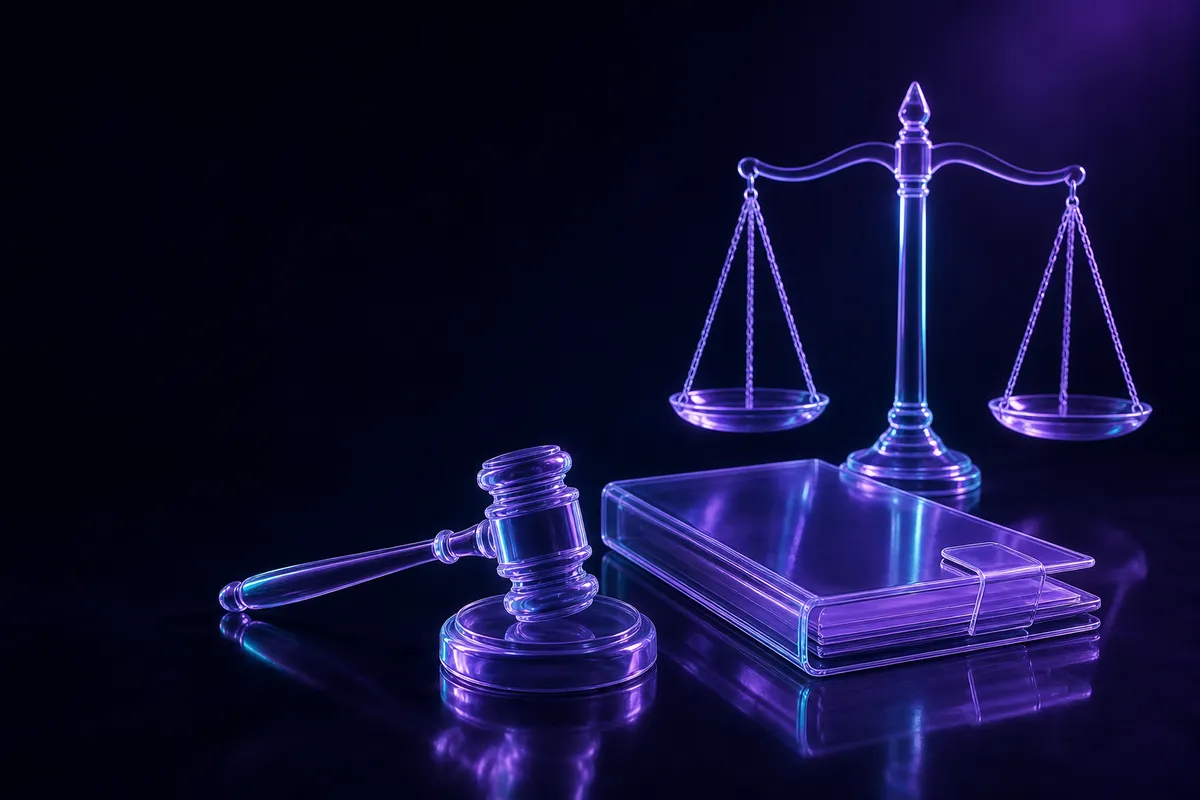
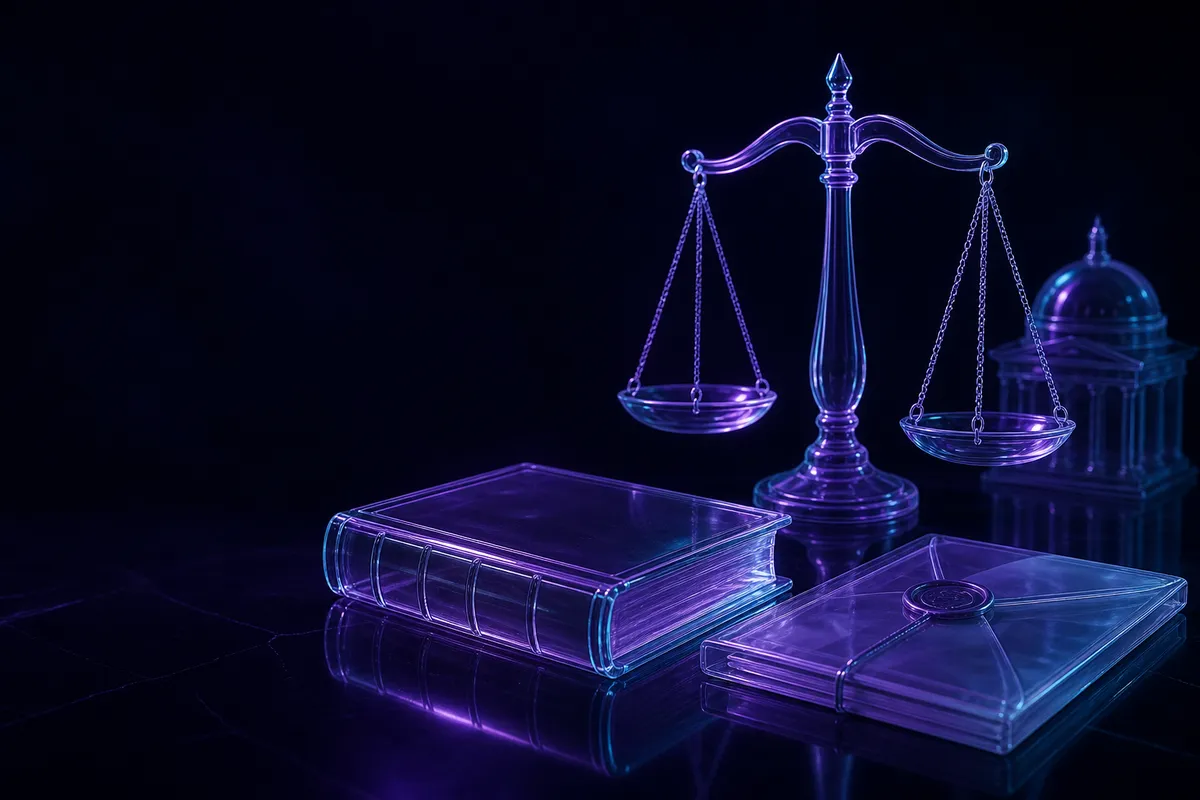
fix(blog): espaces insécables, illustration avocat sans marteau, alt accentués
- src/lib/typographie.ts : un « ? », un « : », un « % » ne commencent plus une ligne,
  « 1 500 euros » ne se coupe plus (plugin remark + titres, FAQ, sources, bio, articles liés)
- illustrer.mjs : symboles adaptés au contexte français (ni marteau de juge, ni dollar),
  texte alternatif relu quand il sort sans aucun accent
- law-firm-ai : illustration redessinée (livre de droit, balance, dossier scellé)
- linter : le message « image absente » ne dit plus que la génération n'est pas branchée

diff --git a/src/components/blog/BlogArticle.tsx b/src/components/blog/BlogArticle.tsx
@@ -11,6 +11,7 @@ import FaqAccordion from "@/components/ui/FaqAccordion";
 import AuthorCard from "./AuthorCard";
 import RelatedPosts from "./RelatedPosts";
 import { mdxComponents } from "./mdx-components";
+import { insecables, remarkInsecables } from "@/lib/typographie";
 
 interface BlogArticleProps {
   post: NonNullable<ReturnType<typeof getPostBySlug>>;
@@ -53,11 +54,11 @@ export default function BlogArticle({
           {content.title}
         </Link>
         <span aria-hidden="true">/</span>
-        <span className="text-white/60">{meta.title}</span>
+        <span className="text-white/60">{insecables(meta.title)}</span>
       </nav>
 
       <h1 className="mb-4 text-4xl font-bold leading-tight text-white md:text-5xl">
-        {meta.title}
+        {insecables(meta.title)}
       </h1>
 
       <p className="flex flex-wrap items-center gap-x-2 gap-y-1 text-sm text-white/40">
@@ -107,7 +108,7 @@ export default function BlogArticle({
         <MDXRemote
           source={post.content}
           components={mdxComponents}
-          options={{ mdxOptions: { remarkPlugins: [remarkGfm] } }}
+          options={{ mdxOptions: { remarkPlugins: [remarkGfm, remarkInsecables] } }}
         />
       </div>
 
@@ -116,7 +117,12 @@ export default function BlogArticle({
           <h2 className="mb-6 text-2xl font-bold text-white">
             {labels.faqTitle}
           </h2>
-          <FaqAccordion items={meta.faq} />
+          <FaqAccordion
+            items={meta.faq.map((item) => ({
+              question: insecables(item.question),
+              answer: insecables(item.answer),
+            }))}
+          />
         </section>
       ) : null}
 
@@ -134,7 +140,7 @@ export default function BlogArticle({
                   rel="noopener noreferrer"
                   className="text-[#a78bfa] hover:underline"
                 >
-                  {source.title}
+                  {insecables(source.title)}
                 </a>
                 {source.date ? (
                   <span className="text-white/40">

diff --git a/src/lib/typographie.ts b/src/lib/typographie.ts
@@ -1,0 +1,36 @@
+/**
+ * Typographie française à l'affichage : un « ? », un « : » ou un « % » ne doit
+ * jamais commencer une ligne, et « 1 500 » ne doit jamais se couper en deux.
+ * Les textes sources gardent des espaces ordinaires, faciles à écrire pour la
+ * routine comme pour un humain ; c'est l'affichage qui les rend insécables.
+ * Sans effet sur l'anglais, qui ne met pas d'espace avant ces signes.
+ */
+
+const INSECABLE = " ";
+
+export function insecables(texte: string): string {
+  return texte
+    .replace(/ ([:;!?»%€])/g, `${INSECABLE}$1`)
+    .replace(/« /g, `«${INSECABLE}`)
+    .replace(/(\d) (?=\d{3}\b)/g, `$1${INSECABLE}`)
+    .replace(/(\d) (euros?|mois|ans?|jours?|heures?|minutes?|h|min)\b/g, `$1${INSECABLE}$2`);
+}
+
+interface Noeud {
+  type: string;
+  value?: string;
+  children?: Noeud[];
+}
+
+function parcourir(noeud: Noeud) {
+  // Seuls les nœuds de texte sont touchés : le code et les URL restent intacts.
+  if (noeud.type === "text" && typeof noeud.value === "string") {
+    noeud.value = insecables(noeud.value);
+  }
+  noeud.children?.forEach(parcourir);
+}
+
+/** Plugin remark : applique `insecables` à tout le texte d'un article MDX. */
+export function remarkInsecables() {
+  return (arbre: Noeud) => parcourir(arbre);
+}

diff --git a/src/components/blog/RelatedPosts.tsx b/src/components/blog/RelatedPosts.tsx
@@ -2,6 +2,7 @@ import React from "react";
 import Link from "next/link";
 import type { BlogPostMeta } from "@/lib/blog";
 import type { Locale } from "@/lib/routes";
+import { insecables } from "@/lib/typographie";
 
 /**
  * Articles liés en pied d'article : donne au lecteur une suite, et relie
@@ -31,10 +32,10 @@ export default function RelatedPosts({
               className="flex h-full flex-col rounded-xl border border-white/10 bg-white/[0.02] p-5 transition-colors hover:border-[#7c3aed]/40"
             >
               <span className="text-sm font-medium leading-snug text-white">
-                {post.title}
+                {insecables(post.title)}
               </span>
               <span className="mt-2 line-clamp-3 text-xs leading-relaxed text-white/50">
-                {post.excerpt}
+                {insecables(post.excerpt)}
               </span>
             </Link>
           </li>

diff --git a/src/components/blog/AuthorCard.tsx b/src/components/blog/AuthorCard.tsx
@@ -3,6 +3,7 @@ import Image from "next/image";
 import Link from "next/link";
 import type { Locale } from "@/lib/routes";
 import { routePath } from "@/lib/routes";
+import { insecables } from "@/lib/typographie";
 
 /**
  * Bloc auteur en pied d'article. Rend visible ce que les données structurées
@@ -41,7 +42,7 @@ export default function AuthorCard({ locale }: { locale: Locale }) {
       <div>
         <p className="text-base font-semibold text-white">Mathis Guillemois</p>
         <p className="text-sm text-[#a78bfa]">{copy.role}</p>
-        <p className="mt-3 text-sm leading-relaxed text-white/70">{copy.bio}</p>
+        <p className="mt-3 text-sm leading-relaxed text-white/70">{insecables(copy.bio)}</p>
         <Link
           href={routePath("about", locale)}
           className="mt-3 inline-block text-sm text-[#a78bfa] hover:underline"
